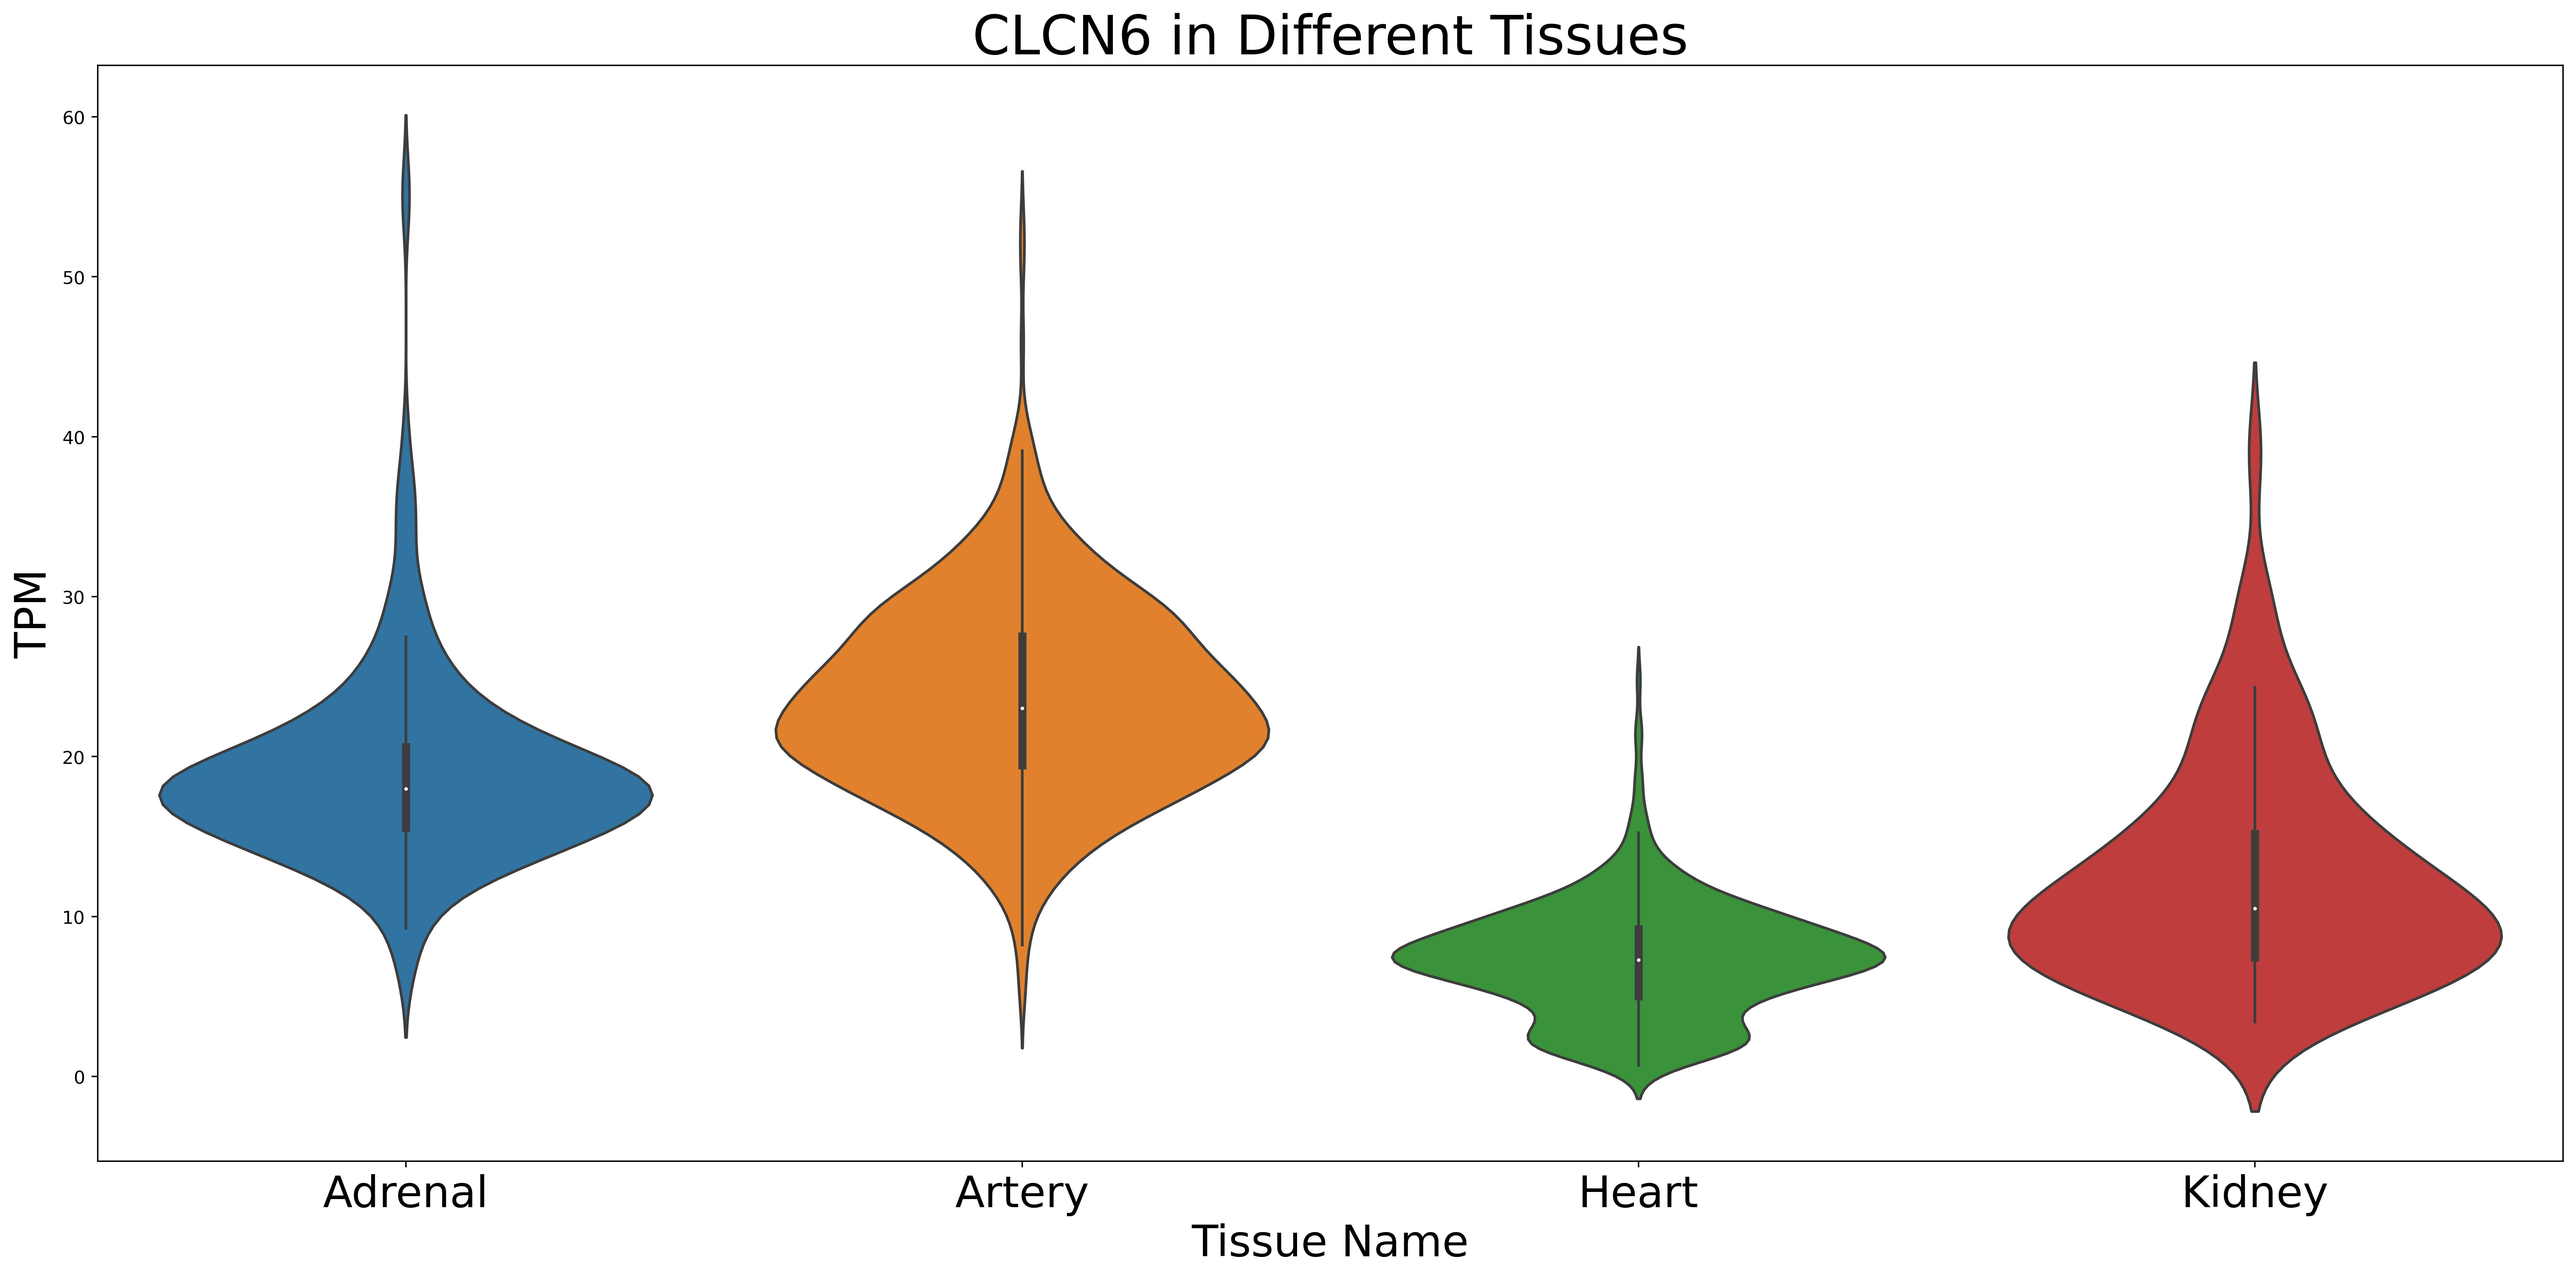
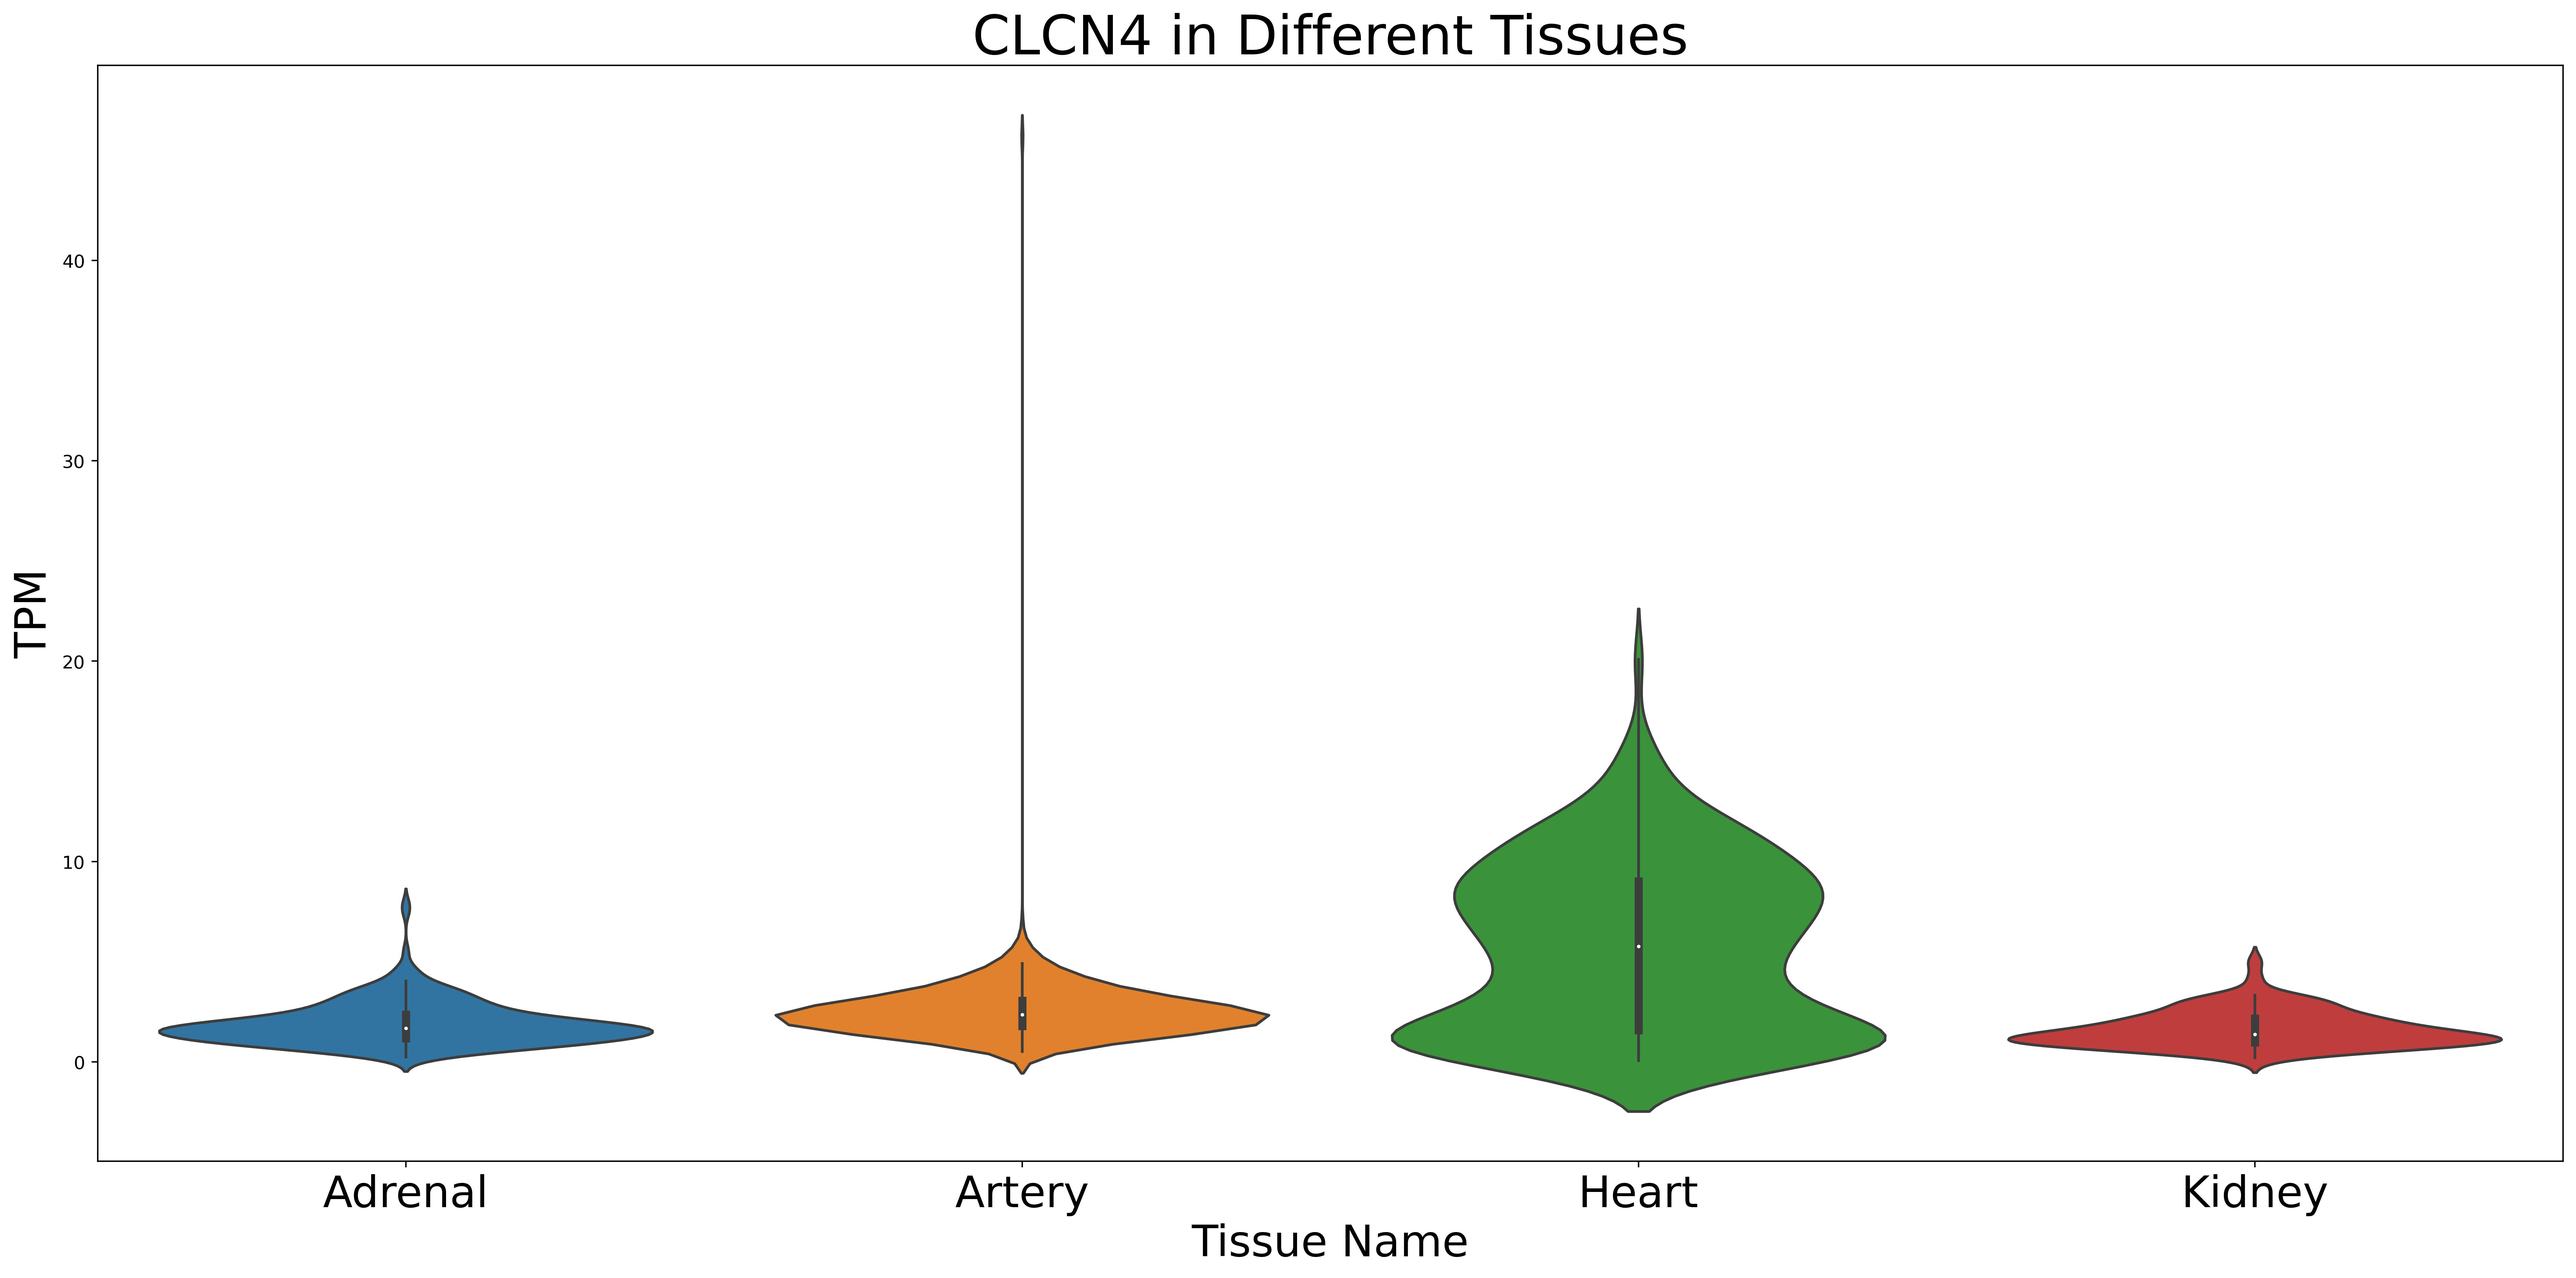
update TPM final

diff --git a/TPM/Flask_TPM.py b/TPM/Flask_TPM.py
@@ -32,7 +32,7 @@ def plot_tpm_violin(gene):
     positions = []
     for i, table in enumerate(tables):
         # Query
-        query = f"SELECT TPM FROM {table} WHERE Description = 'CLCN6'"
+        query = f"SELECT TPM FROM {table} WHERE Description = '{gene}'"
         df = pd.read_sql_query(query, conn)
         if not df.empty:
             all_data.append(df['TPM'])
